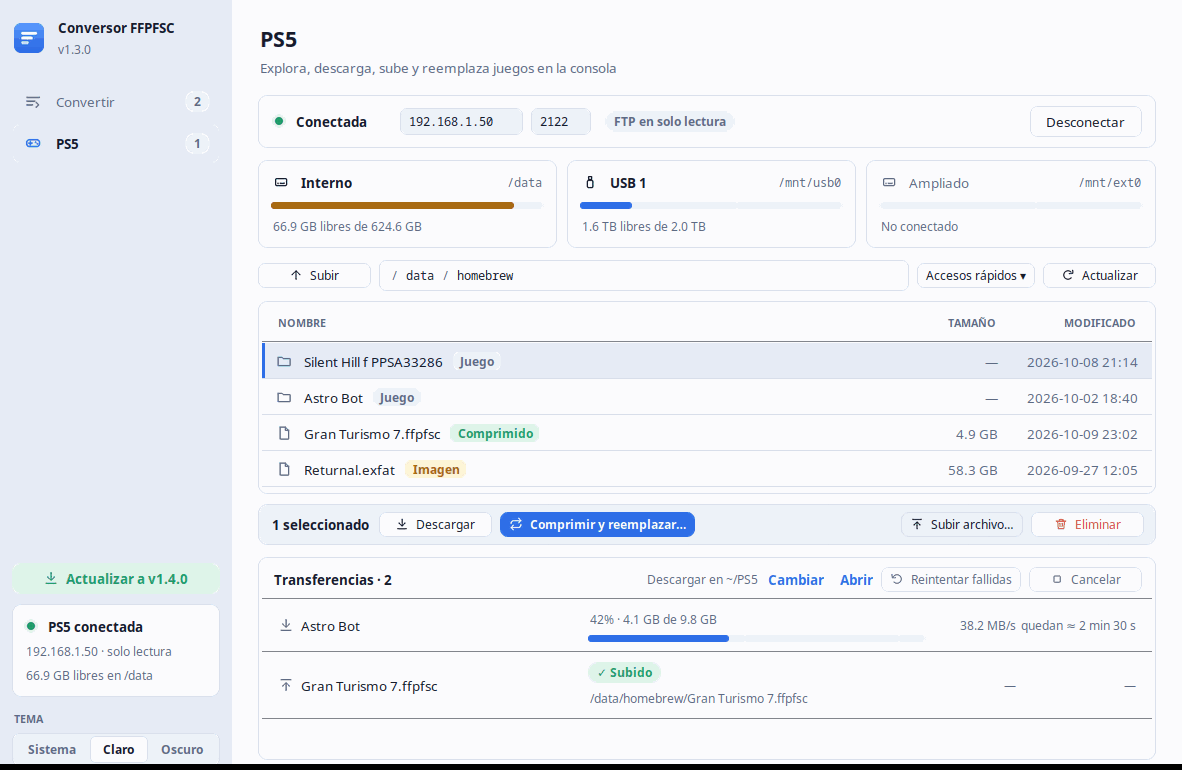
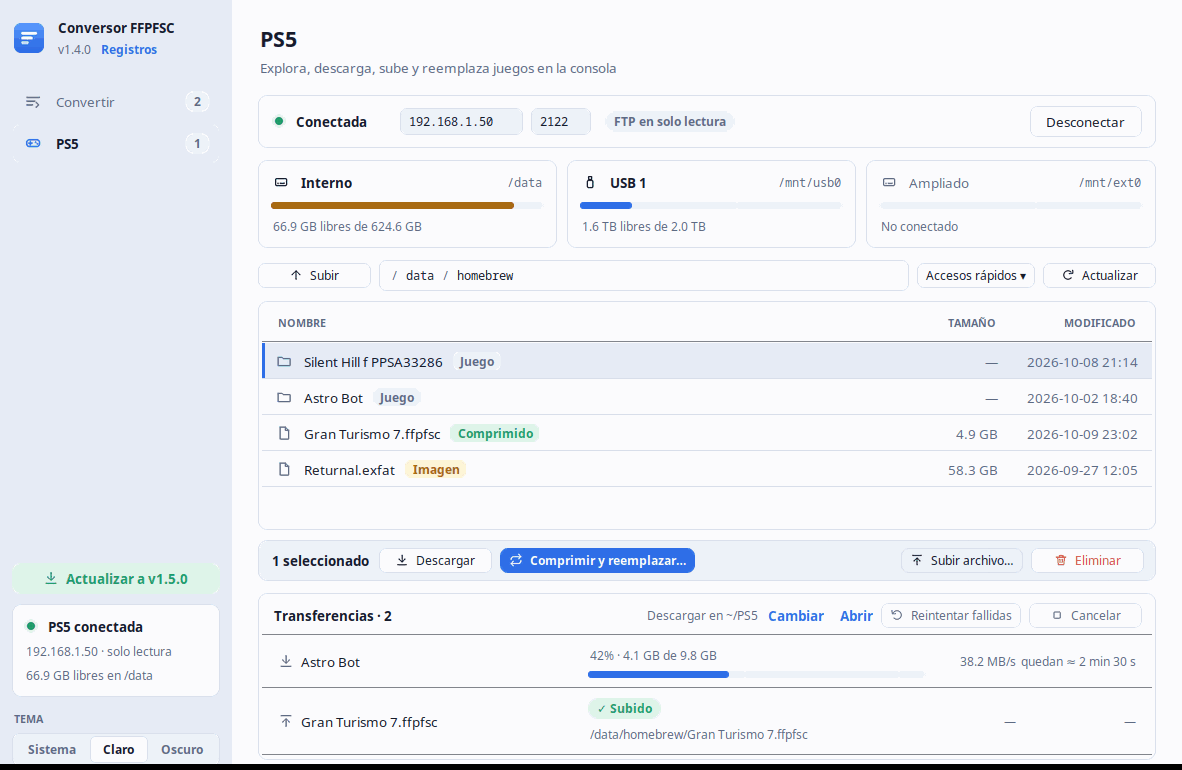
chore(release): v1.4.0
- Versión 1.4.0 en __init__.py, la insignia del README y los ejemplos de
  las docstrings.
- CHANGELOG: lo que estaba en "Sin publicar" pasa a [1.4.0] - 2026-10-10.
- Capturas del README con la versión 1.4.0.

Changed region(s): [[0.2132, 0.6545, 0.9746, 0.9662], [0.2437, 0.9351, 0.3655, 0.9662], [0.0914, 0.0623, 0.1218, 0.0935]]

diff --git a/src/ffpfsc_converter/ui/presenters.py b/src/ffpfsc_converter/ui/presenters.py
@@ -27,7 +27,7 @@ def version_text(version: str = __version__) -> str:
         version (str): Versión en formato SemVer; por defecto, la instalada.
 
     Returns:
-        str: Versión con prefijo, por ejemplo ``"v1.3.1"``.
+        str: Versión con prefijo, por ejemplo ``"v1.4.0"``.
     """
     return f"v{version}"
 
@@ -39,7 +39,7 @@ def window_title(version: str = __version__) -> str:
         version (str): Versión en formato SemVer; por defecto, la instalada.
 
     Returns:
-        str: Por ejemplo ``"Conversor FFPFSC (PS5) — v1.3.1"``.
+        str: Por ejemplo ``"Conversor FFPFSC (PS5) — v1.4.0"``.
     """
     return f"{APP_TITLE} — {version_text(version)}"
 

diff --git a/src/ffpfsc_converter/ui/shell.py b/src/ffpfsc_converter/ui/shell.py
@@ -84,7 +84,7 @@ class AppShell(ttk.Frame):
         Args:
             root (tk.Misc): Ventana raíz.
             theme (ThemeManager): Tema.
-            version (str): Versión de la app (por ejemplo ``"v1.3.1"``).
+            version (str): Versión de la app (por ejemplo ``"v1.4.0"``).
         """
         super().__init__(root, style="TFrame")
         self._theme = theme

diff --git a/src/ffpfsc_converter/__init__.py b/src/ffpfsc_converter/__init__.py
@@ -4,4 +4,4 @@ Interfaz gráfica sobre MkPFS (https://github.com/PSBrew/MkPFS), configurada
 para máxima velocidad usando todos los núcleos de la CPU.
 """
 
-__version__ = "1.3.1"
+__version__ = "1.4.0"

diff --git a/README.md b/README.md
@@ -8,7 +8,7 @@
 
 **Carpeta de juego · `.exfat` · `.ffpkg` &nbsp;→&nbsp; `.ffpfsc`**
 
-[![Versión](https://img.shields.io/badge/versión-1.3.1-6366f1?style=for-the-badge)](CHANGELOG.md)
+[![Versión](https://img.shields.io/badge/versión-1.4.0-6366f1?style=for-the-badge)](CHANGELOG.md)
 [![Python](https://img.shields.io/badge/Python-3.10+-3776AB?style=for-the-badge&logo=python&logoColor=white)](https://www.python.org/)
 [![Linux](https://img.shields.io/badge/Linux-FCC624?style=for-the-badge&logo=linux&logoColor=black)](#-instalación)
 [![Windows](https://img.shields.io/badge/Windows-10%20%7C%2011-0078D6?style=for-the-badge&logo=windows&logoColor=white)](#-instalación)

diff --git a/CHANGELOG.md b/CHANGELOG.md
@@ -5,6 +5,8 @@ el proyecto usa [Versionado Semántico](https://semver.org/lang/es/).
 
 ## [Sin publicar]
 
+## [1.4.0] - 2026-10-10
+
 ### Añadido
 - «Comprimir y reemplazar» compara con CRC32 lo descargado y lo subido con lo que
   hay en la PS5 (la consola lo calcula con el helper, en paralelo) antes de
